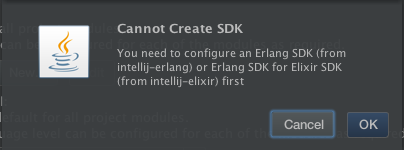
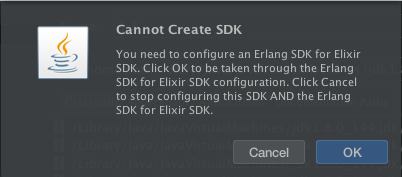
Improve Cannot Create SDK error message
Fixes #1132

Explain that clicking OK continues the configuration while Cancel stops
it.

diff --git a/src/org/elixir_lang/sdk/erlang_dependent/Type.java b/src/org/elixir_lang/sdk/erlang_dependent/Type.java
@@ -46,7 +46,9 @@ public abstract class Type extends DependentSdkType {
 
     @Override
     public String getUnsatisfiedDependencyMessage() {
-        return "You need to configure an " + getDependencyType().getName();
+        return "You need to configure an " + getDependencyType().getName() + ".  Click OK to be taken through the " +
+                getDependencyType().getName() + " configuration.  Click Cancel to stop configuring this SDK AND the "+
+                getDependencyType().getName() + ".";
     }
 
     @Override
